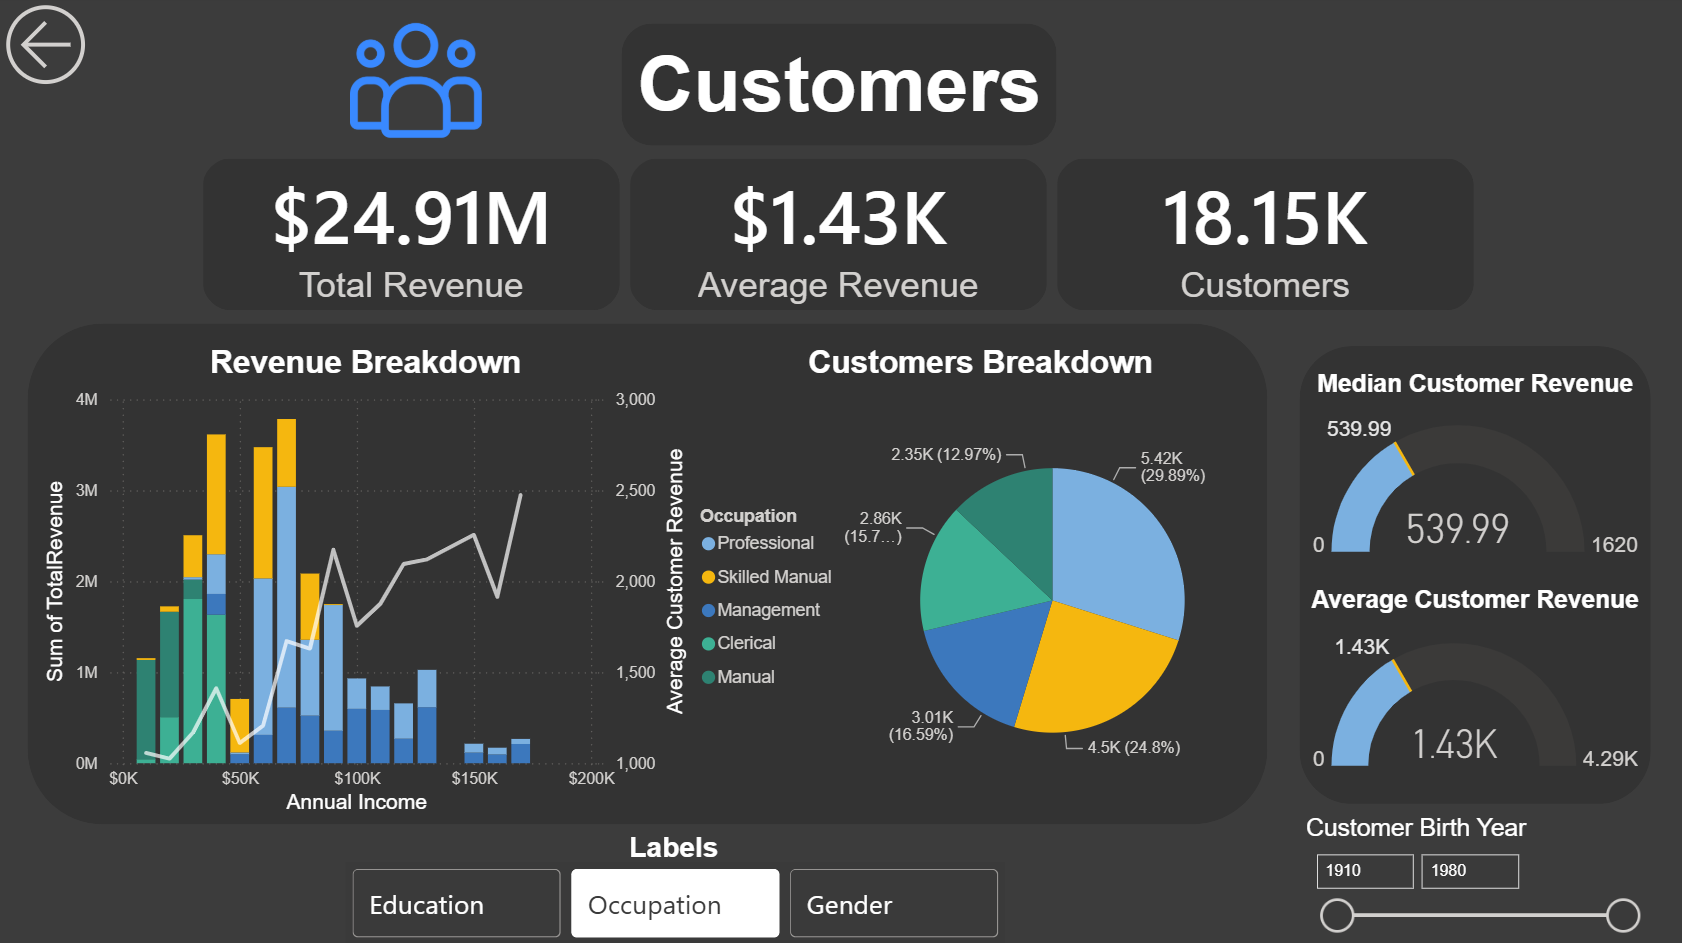
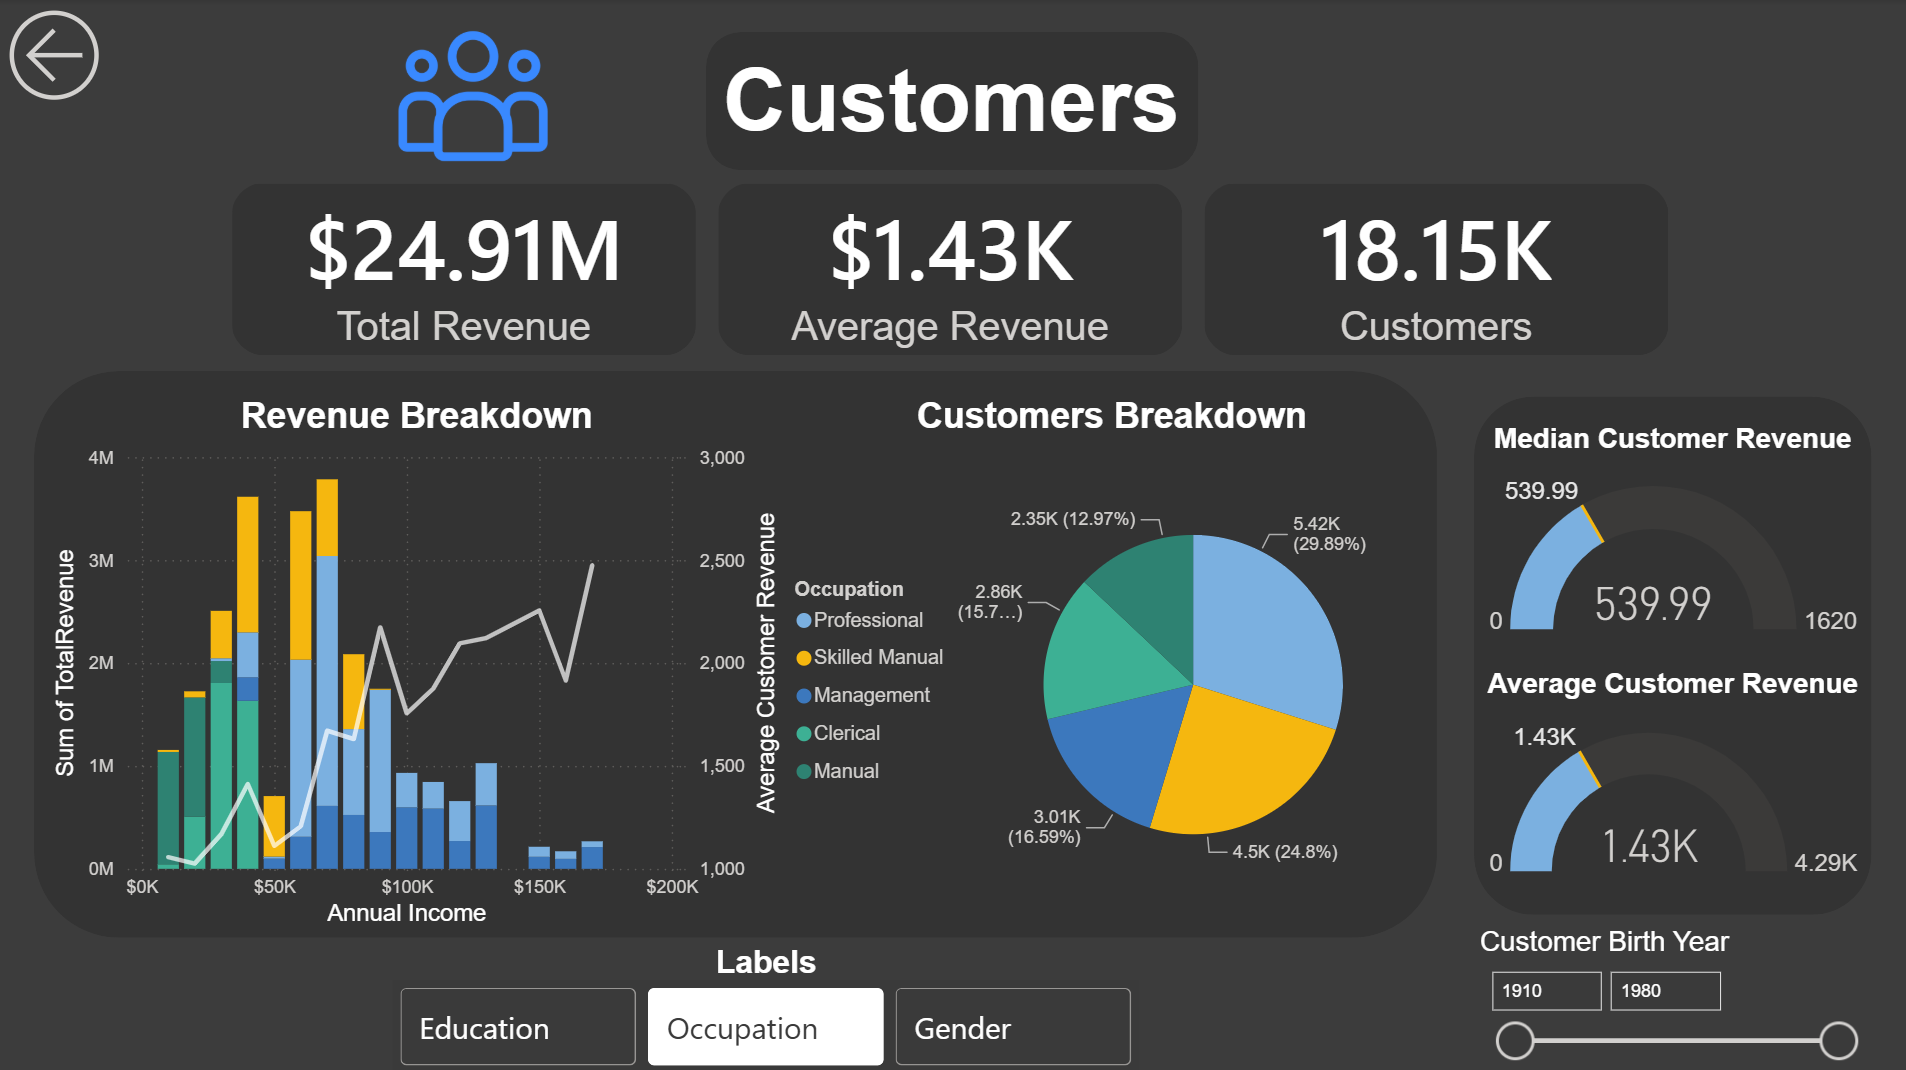
updated images

diff --git a/README.md b/README.md
@@ -1,5 +1,5 @@
 
-### Introduction
+## Introduction
 
 This is the fourth of four project meant to showcase my knowledge of GitHub and various data science tools, such as PowerBI. For this project, I worked with relational database documenting customers, products and sales for a store that sells bicycles and related accessories. Utilizing PowerBI I created an interable dashboard for exploring the dataset and revenue by three major aspects:
 
@@ -21,7 +21,7 @@ Below you can see screenshots of the three dashboards. At the bottom of the READ
   <img src="assets/products_dashboard.png" width="800">
 </p>
 
-### Tools Used
+## Tools Used
 
 - **PowerBI**
     - Power Query: Used to load and transform the dataset.
@@ -30,7 +30,7 @@ Below you can see screenshots of the three dashboards. At the bottom of the READ
     - Slicers: Used to allow user interaction in filters the dataset.
     - Parameters: Used to allow the swapping of labels/axis measurements via slicers.
     
-### Dataset
+## Dataset
 
 To make the PowerBI file function on your computer you may need to update the filepaths for the dataset files. Follow these steps:
 
@@ -43,10 +43,26 @@ To make the PowerBI file function on your computer you may need to update the fi
   <img src="assets/data_model.png" width="800">
 </p>
 
-### Territories
+The dataset is sourced from a simplified version of the [AdventureWorks](https://dataedo.com/samples/html/AdventureWorks/doc/AdventureWorks_2/home.html) dataset found on [Kaggle](https://www.kaggle.com/datasets/sprasad018/adventureworks-dataset?resource=download).
+
+The dataset, as visualized above, cointains 5 tables. The most important tables is the Sales table which documents orders over the course of multiple years for the business. The other tables all store relevant data to those orders.
+
+The Customer table stores data on customers with some demographic data such as birth date, education level, gender, and more.
+
+The territories table stores data on the multiple territories of operations and some of their sub divisions.
+
+The Product tabel stores data on all the offered products with details such as price, and category. The categories are assigned from the product's relationship with the Product_Subcategories and Product_Categories tables.
+
+Once loaded I cleaned the dataset with power query, removing uneeded columns and fixing the auto-assigned data types. For more in depth usage, check out my Excel project which used power query significantly more.
 
 
-### Customers
+## Territories
+<p align="center">
+  <img src="assets/homepage.png" width="800">
+</p>
+
+For the dashboard there are 3 pages, focusing on the territories, customers, and products. To navigate between these pages I created a homepage with navigations buttons. Each of the dashboards also include a back button in the top left which navigates back to the homepage.
+## Customers
 
 
-### Products
+## Products